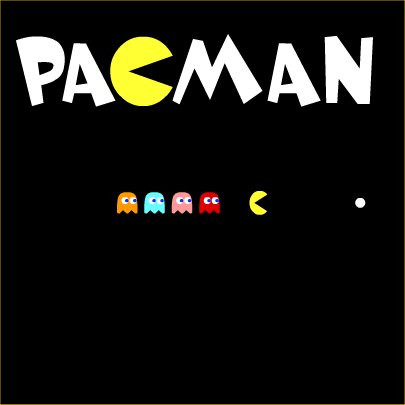
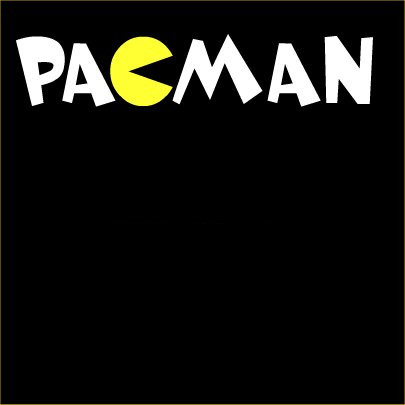
Start menu almost completed. Animations added.

Changed region(s): [[0.2667, 0.4741, 0.563, 0.5333], [0.8593, 0.4741, 0.9185, 0.5333], [0.5926, 0.4741, 0.6519, 0.5333]]

diff --git a/src/UserInterface.java b/src/UserInterface.java
@@ -9,6 +9,7 @@ import java.awt.event.KeyListener;
 import java.io.File;
 import java.text.DecimalFormat;
 import java.util.ArrayList;
+import java.util.Random;
 
 import javax.swing.ImageIcon;
 import javax.swing.JFrame;
@@ -35,7 +36,8 @@ public class UserInterface extends JFrame implements ActionListener, KeyListener
 	private ArrayList<Integer> blue_wall, small_dot, big_dot,
 							pacman_start, ghost_house, ghost_house_exit,
 							fruit, nothing, nextline;
-	private Player p = new Player();
+	private Player pac = new Player(0, 0, -30, 175, 30, 30, loadImage( "pacman_right.png" ));
+	private Player p = new Player(1, 1, 0, 0, 30, 30, loadImage( "pacman_left.png" ));
 
 	public UserInterface()
 	{
@@ -48,8 +50,9 @@ public class UserInterface extends JFrame implements ActionListener, KeyListener
 	private enum Arrow_Pos
 	{
 		START_GAME,
+		CREDITS,
 		HELP,
-		CREDITS
+		QUIT
 	}
 
 	/*
@@ -112,32 +115,42 @@ public class UserInterface extends JFrame implements ActionListener, KeyListener
 				{
 					case START_GAME:
 						xPos = 275;
-						yPos = 280;
-						break;
-
-					case HELP:
-						xPos = 250;
-						yPos = 310;
+						yPos = 260;
 						break;
 
 					case CREDITS:
 						xPos = 250;
-						yPos = 340;
+						yPos = 290;
+						break;
+
+					case HELP:
+						xPos = 235;
+						yPos = 320;
+						break;
+
+					case QUIT:
+						xPos = 235;
+						yPos = 350;
 						break;
 
 					default:
 						xPos = 275;
-						yPos = 280;
+						yPos = 260;
 						break;
 				}
 				g.drawImage(start_menu_arrow.getImage(), xPos, yPos, 45, 23, null);
 
+				// Animate the ghosts chasing pacman across the screen
+				pac.draw(g);
+				pac.update();
+				
 				//g.setColor(Color.YELLOW);
 				setForeground(Color.YELLOW);
 				g.setFont(new Font("Dialog", Font.PLAIN, 25));
-				g.drawString("Start Game", 135, 300);
-				g.drawString("Help", 175, 330);
-				g.drawString("Credits", 155, 360);
+				g.drawString("Start Game", 135, 280);
+				g.drawString("Credits", 160, 310);
+				g.drawString("Help", 175, 340);
+				g.drawString("Quit", 175, 370);
 				break;
 
 			case IN_GAME:
@@ -165,12 +178,15 @@ public class UserInterface extends JFrame implements ActionListener, KeyListener
 			switch (arrow_pos)
 			{
 				case START_GAME:
-					arrow_pos = Arrow_Pos.CREDITS;
-					break;
-				case HELP:
-					arrow_pos = Arrow_Pos.START_GAME;
+					arrow_pos = Arrow_Pos.QUIT;
 					break;
 				case CREDITS:
+					arrow_pos = Arrow_Pos.START_GAME;
+					break;
+				case HELP:
+					arrow_pos = Arrow_Pos.CREDITS;
+					break;
+				case QUIT:
 					arrow_pos = Arrow_Pos.HELP;
 					break;
 
@@ -186,12 +202,15 @@ public class UserInterface extends JFrame implements ActionListener, KeyListener
 			switch (arrow_pos)
 			{
 				case START_GAME:
-					arrow_pos = Arrow_Pos.HELP;
-					break;
-				case HELP:
 					arrow_pos = Arrow_Pos.CREDITS;
 					break;
 				case CREDITS:
+					arrow_pos = Arrow_Pos.HELP;
+					break;
+				case HELP:
+					arrow_pos = Arrow_Pos.QUIT;
+					break;
+				case QUIT:
 					arrow_pos = Arrow_Pos.START_GAME;
 					break;
 
@@ -269,6 +288,12 @@ public class UserInterface extends JFrame implements ActionListener, KeyListener
 					}
 
 					break;
+				case CREDITS:
+					JOptionPane.showMessageDialog(this,
+							"Adam Childs - adchilds@eckerd.edu",
+							"Credits",
+							JOptionPane.INFORMATION_MESSAGE);
+					break;
 				case HELP:
 					DecimalFormat fmt = new DecimalFormat("#0.00");
 					JOptionPane.showMessageDialog(this, "Current version: v" + fmt.format(version) + "\n" +
@@ -277,16 +302,17 @@ public class UserInterface extends JFrame implements ActionListener, KeyListener
 							"Pacman v" + fmt.format(version),
 							JOptionPane.INFORMATION_MESSAGE);
 					break;
-				case CREDITS:
-					JOptionPane.showMessageDialog(this,
-							"Adam Childs - adchilds@eckerd.edu",
-							"Credits",
-							JOptionPane.INFORMATION_MESSAGE);
-					break;
+				case QUIT:
+					System.exit(0);
+					break; // Technically don't need this, but to keep consistency...
 
 				default:
 					break;
 			}
+		}
+		else if (e.getKeyCode() == KeyEvent.VK_D)
+		{
+			pac.setPlayerDirection(new Random().nextInt(2));
 		}
 	}
 

diff --git a/src/Player.java b/src/Player.java
@@ -1,33 +1,117 @@
 import java.awt.Graphics;
 
+import javax.swing.ImageIcon;
+
 public class Player extends GameEntity
 {
+	private boolean mouth_open = true;
 	private int lives;
+	private long prevTime = System.currentTimeMillis() / 100; // Seconds
+	private Direction direction;
 	private Player_State player_state;
+	private ImageIcon pacman_closed, pacman_down, pacman_left,
+						pacman_right, pacman_up;
 
-	public Player()
+	public Player(int state, int dir, int x, int y, int w, int h, ImageIcon i)
 	{
-		setPlayerState(Player_State.ALIVE);
+		setPlayerState(state);
+		setPlayerDirection(dir);
 		setLives(3);
+		posX = x;
+		posY = y;
+		height = h;
+		width = w;
+		image = i;
+
+		pacman_closed = loadImage( "pacman_closed.png" );
+		pacman_down = loadImage( "pacman_down.png" );
+		pacman_left = loadImage( "pacman_left.png" );
+		pacman_right = loadImage( "pacman_right.png" );
+		pacman_up = loadImage( "pacman_up.png" );
+	}
+
+	public enum Direction
+	{
+		RIGHT, // Player is moving right
+		LEFT, // Player is moving left
+		UP, // Player is moving up
+		DOWN // Player is moving down
 	}
 
 	public enum Player_State
 	{
-		ALIVE,	// Player is currently alive
-		DEAD,	// Player has died
-		IMMUNE	// Player is immune to ghosts
+		START_SCREEN, // Player is on the start screen
+		ALIVE, // Player is currently alive
+		DEAD, // Player has died
+		IMMUNE // Player is immune to ghosts
 	}
 
 	@Override
 	public void draw(Graphics g)
 	{
-		
+		g.drawImage(image.getImage(), posX, posY, width, height, null);
 	}
 
 	@Override
 	public void update()
 	{
-		
+		switch(player_state)
+		{
+			case START_SCREEN:
+				long curTime = System.currentTimeMillis() / 100; // Seconds
+
+				/*
+				 * If pacman has gone off the screen, we need to reset him to the
+				 * other side.
+				 */
+				if (direction == Direction.RIGHT)
+				{
+					posX++; // Increase Pacman's position by one every cycle
+					if (posX > 405)
+						posX = -30;
+					
+					// Animate mouth
+					if ((curTime - prevTime) > 1.75)
+					{
+						if (mouth_open)
+						{
+							image = pacman_closed;
+							mouth_open = false;
+							prevTime = curTime;
+						} else {
+							image = pacman_right;
+							mouth_open = true;
+							prevTime = curTime;
+						}
+					}
+				}
+				else if (direction == Direction.LEFT)
+				{
+					posX--; // Decrease Pacman's position by one every cycle
+
+					if (posX < -30)
+						posX = 435;
+
+					// Animate mouth
+					if ((curTime - prevTime) > 1.75)
+					{
+						if (mouth_open)
+						{
+							image = pacman_closed;
+							mouth_open = false;
+							prevTime = curTime;
+						} else {
+							image = pacman_left;
+							mouth_open = true;
+							prevTime = curTime;
+						}
+					}
+				}
+				break;
+
+			default:
+				break;
+		}
 	}
 
 	public int getLives()
@@ -48,5 +132,64 @@ public class Player extends GameEntity
 	public void setPlayerState(Player_State ps)
 	{
 		player_state = ps;
+	}
+
+	public void setPlayerState(int s)
+	{
+		switch(s)
+		{
+			case 0:
+				player_state = Player_State.START_SCREEN;
+				break;
+			case 1:
+				player_state = Player_State.ALIVE;
+				break;
+			case 2:
+				player_state = Player_State.DEAD;
+				break;
+			case 3:
+				player_state = Player_State.IMMUNE;
+				break;
+
+			default:
+				break;
+		}
+	}
+
+	public Direction getPlayerDirection()
+	{
+		return direction;
+	}
+
+	public void setPlayerDirection(Direction d)
+	{
+		direction = d;
+	}
+
+	public void setPlayerDirection(int d)
+	{
+		switch(d)
+		{
+			case 0:
+				direction = Direction.RIGHT;
+				break;
+			case 1:
+				direction = Direction.LEFT;
+				break;
+			case 2:
+				direction = Direction.UP;
+				break;
+			case 3:
+				direction = Direction.DOWN;
+				break;
+
+			default:
+				break;
+		}
+	}
+
+	public ImageIcon loadImage(String i)
+	{
+		return new ImageIcon(getClass().getResource("images/" + i));
 	}
 }

diff --git a/src/GameEntity.java b/src/GameEntity.java
@@ -27,22 +27,22 @@ public abstract class GameEntity
 		return color;
 	}
 
-	public void setPositionX(int x)
+	public void setX(int x)
 	{
 		posX = x;
 	}
 
-	public int getPositionX()
+	public int getX()
 	{
 		return posX;
 	}
 
-	public void setPositionY(int y)
+	public void setY(int y)
 	{
 		posY = y;
 	}
 
-	public int getPositionY()
+	public int getY()
 	{
 		return posY;
 	}

diff --git a/src/Ghost.java b/src/Ghost.java
@@ -1,0 +1,22 @@
+import java.awt.Graphics;
+
+public class Ghost extends GameEntity
+{
+	
+	public Ghost()
+	{
+		
+	}
+
+	@Override
+	public void draw(Graphics g)
+	{
+		
+	}
+
+	@Override
+	public void update()
+	{
+		
+	}
+}
